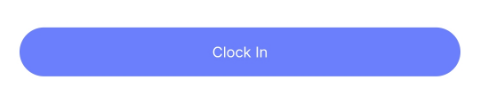
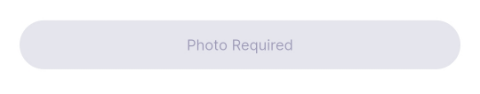
WIP: refactor: hrms and clock in documentation

diff --git a/docs/integration/hrms/e-tms/app-usage.md b/docs/integration/hrms/e-tms/app-usage.md
@@ -1,5 +1,5 @@
 ---
-sidebar_position: 3
+sidebar_position: 2
 title: App Usage
 description: An E TMS features in SQL HRMS app guide
 ---
@@ -31,8 +31,10 @@ Enable **Autostart** for SQL HRMS to ensure E TMS features work accordingly (ref
 | ![clock-button2](../../../../static/img/integration/hrms/e-tms/clock-button2.png) | SQL HRMS app is trying to get user's current location                                                                                                                                                                                                                                  |
 | ![clock-button3](../../../../static/img/integration/hrms/e-tms/clock-button3.png) | User is not within work location. However, if user is really within their work location, SQL HRMS app will continuously try to get a more accurate position so that user will be able to Clock In / Clock Out                                                                          |
 | ![clock-button4](../../../../static/img/integration/hrms/e-tms/clock-button4.png) | User's location is mocked and is not allowed to Clock In / Out                                                                                                                                                                                                                         |
-| ![clock-button5](../../../../static/img/integration/hrms/e-tms/clock-button5.png) | User is within work location and is allowed to Clock In                                                                                                                                                                                                                                |
-| ![clock-button6](../../../../static/img/integration/hrms/e-tms/clock-button6.png) | User is within work location and is allowed to Clock Out                                                                                                                                                                                                                               |
+| ![clock-button5](../../../../static/img/integration/hrms/e-tms/clock-button5.png) | User is required to take a site photo                                                                                                                                                                                                                                                  |
+| ![clock-button6](../../../../static/img/integration/hrms/e-tms/clock-button6.png) | The photo uploaded by user is no longer valid. User will need to delete and reupload a new photo. The valid duration is 2 mins                                                                                                                                                         |
+| ![clock-button7](../../../../static/img/integration/hrms/e-tms/clock-button7.png) | User is within work location and is allowed to Clock In                                                                                                                                                                                                                                |
+| ![clock-button8](../../../../static/img/integration/hrms/e-tms/clock-button8.png) | User is within work location and is allowed to Clock Out                                                                                                                                                                                                                               |
 
 **Clock In:**
 
@@ -65,9 +67,9 @@ If user forget to clock out, the app will reset the time tracking after 10 hours
 
 | **Button**                                                                        | **Explanation**                                                                                                                                                                                                                                                                                                              |
 | :-------------------------------------------------------------------------------- | :--------------------------------------------------------------------------------------------------------------------------------------------------------------------------------------------------------------------------------------------------------------------------------------------------------------------------- |
-| ![clock-button7](../../../../static/img/integration/hrms/e-tms/clock-button7.png) | SQL HRMS app's Bluetooth service is unable to start. This may due to the following reasons: <br/><br/> 1. User's Bluetooth service is not enabled <br/> 2. The required nearby devices permission is not allowed <br/><br/> Refer [Bluetooth Service and Nearby Devices Permission](../permission#nearby-devices--bluetooth) |
-| ![clock-button5](../../../../static/img/integration/hrms/e-tms/clock-button5.png) | User is allowed to Clock In                                                                                                                                                                                                                                                                                                  |
-| ![clock-button6](../../../../static/img/integration/hrms/e-tms/clock-button6.png) | User is allowed to Clock Out                                                                                                                                                                                                                                                                                                 |
+| ![clock-button9](../../../../static/img/integration/hrms/e-tms/clock-button9.png) | SQL HRMS app's Bluetooth service is unable to start. This may due to the following reasons: <br/><br/> 1. User's Bluetooth service is not enabled <br/> 2. The required nearby devices permission is not allowed <br/><br/> Refer [Bluetooth Service and Nearby Devices Permission](../permission#nearby-devices--bluetooth) |
+| ![clock-button7](../../../../static/img/integration/hrms/e-tms/clock-button7.png) | User is allowed to Clock In                                                                                                                                                                                                                                                                                                  |
+| ![clock-button8](../../../../static/img/integration/hrms/e-tms/clock-button8.png) | User is allowed to Clock Out                                                                                                                                                                                                                                                                                                 |
 
 **Clock In:**
 
@@ -82,7 +84,9 @@ If user forget to clock out, the app will reset the time tracking after 10 hours
 
     ![clock-out4](../../../../static/img/integration/hrms/e-tms/clock-out4.png)
 
-    - If **_'Claim OT' switch_** is turned on, it will go through similar OT validations as _By GPS_ before QR Code is generated
+    - **_'Claim As Leave' switch_** follows the same flow as _By GPS_ and user will receive the below message instead
+
+      ![clock-out5](../../../../static/img/integration/hrms/e-tms/clock-out5.png)
 
 :::warning
 Screenshotting the QR Code is not allowed!
@@ -218,8 +222,8 @@ Managers are allowed to clock in on behalf for his team by tapping on the **_'Cl
 | ![clock-button1](../../../../static/img/integration/hrms/e-tms/clock-button1.png) | SQL HRMS app's location service is unable to start. This may due to the following reasons: <br/><br/> 1. User's device GPS is not enabled <br/> 2. The required location permission is not allowed <br/><br/> Refer [Location Service and Permission](../permission.md#location) |
 | ![clock-button2](../../../../static/img/integration/hrms/e-tms/clock-button2.png) | SQL HRMS app is trying to get user's current location                                                                                                                                                                                                                            |
 | ![clock-button4](../../../../static/img/integration/hrms/e-tms/clock-button4.png) | User's location is mocked and is not allowed to Clock In / Out                                                                                                                                                                                                                   |
-| ![clock-button5](../../../../static/img/integration/hrms/e-tms/clock-button5.png) | User's location is detected and is allowed to Clock In                                                                                                                                                                                                                           |
-| ![clock-button6](../../../../static/img/integration/hrms/e-tms/clock-button6.png) | User's location is detected and is allowed to Clock Out                                                                                                                                                                                                                          |
+| ![clock-button7](../../../../static/img/integration/hrms/e-tms/clock-button7.png) | User's location is detected and is allowed to Clock In                                                                                                                                                                                                                           |
+| ![clock-button8](../../../../static/img/integration/hrms/e-tms/clock-button8.png) | User's location is detected and is allowed to Clock Out                                                                                                                                                                                                                          |
 
 - Manager's location will be captured when help to clock on behalf
 - Manager can adjust the employee's clocking time and checked **_'Claim OT'_** or **_'Claim As Leave'_** if needed

diff --git a/docs/integration/hrms/e-claim/app-usage.md b/docs/integration/hrms/e-claim/app-usage.md
@@ -88,19 +88,20 @@ User can view all his claim transactions once enter this page
     - Claim Status
 - Type of claim status:
 
-  | **Icon**                                                                                            | **Claim Status** | **Remark**                                                    |
-  | :-------------------------------------------------------------------------------------------------- | :--------------- | :------------------------------------------------------------ |
-  | ![pending-approval-icon](../../../../static/img/integration/hrms/e-claim/pending-approval-icon.png) | Pending Approval | Status after normal employee applied a claim submission       |
-  | ![approved-icon](../../../../static/img/integration/hrms/e-claim/approved-icon.png)                 | Approved         | Approved by manager from app and not synced to payroll system |
-  | ![approved-sync-icon](../../../../static/img/integration/hrms/e-claim/approved-sync-icon.png)       | Approved (Sync)  | Synced and approved on payroll system                         |
-  | ![rejected-icon](../../../../static/img/integration/hrms/e-claim/rejected-icon.png)                 | Rejected         | Rejected from app / payroll system                            |
-  | ![cancelled-icon](../../../../static/img/integration/hrms/e-claim/cancelled-icon.png)               | Cancelled        | Cancelled by user from app                                    |
+  | **Icon**                                                                                                    | **Claim Status**     | **Remark**                                                                                                                                             |
+  | :---------------------------------------------------------------------------------------------------------- | :------------------- | :----------------------------------------------------------------------------------------------------------------------------------------------------- |
+  | ![pending-approval-icon](../../../../static/img/integration/hrms/e-claim/pending-approval-icon.png)         | Pending Approval     | Status after normal employee applied a claim submission                                                                                                |
+  | ![pending-verification-icon](../../../../static/img/integration/hrms/e-claim/pending-verification-icon.png) | Pending Verification | Status after normal employee applied a claim submission (with [Multi-Level Approval](payroll-setup#multi-level-leave-approval--notification-settings)) |
+  | ![approved-icon](../../../../static/img/integration/hrms/e-claim/approved-icon.png)                         | Approved             | Approved by manager from app and not synced to payroll system                                                                                          |
+  | ![approved-sync-icon](../../../../static/img/integration/hrms/e-claim/approved-sync-icon.png)               | Approved (Sync)      | Synced and approved on payroll system                                                                                                                  |
+  | ![rejected-icon](../../../../static/img/integration/hrms/e-claim/rejected-icon.png)                         | Rejected             | Rejected from app / payroll system                                                                                                                     |
+  | ![cancelled-icon](../../../../static/img/integration/hrms/e-claim/cancelled-icon.png)                       | Cancelled            | Cancelled by user from app                                                                                                                             |
 
 ## Claim Transaction Detail
 
 ![claim-detail](../../../../static/img/integration/hrms/e-claim/claim-detail.png)
 
-- User are allowed to edit the claim transaction details or cancel the claim on **Pending Approval** claims.
+- User are allowed to edit the claim transaction details or cancel the claim on **Approved / Pending Approval Pending Verification** claims.
 - **_'View Change Log' button_**: View change log of the claim
 
 ## Team Claim (Manager only)
@@ -108,7 +109,7 @@ User can view all his claim transactions once enter this page
 Manager Types: (refer [Manager Authority Settings](payroll-setup.md#manager-authority-settings))
 
 1. **Approval Manager:** Can approve employee claim
-2. **Verify Manager:** Cannot approve employee claim
+2. **Verify Manager:** Can verify employee claim (required Approval Manager to approve a claim submission)
 
 ![team-claim](../../../../static/img/integration/hrms/e-claim/team-claim.png)
 
@@ -129,17 +130,30 @@ Manager Types: (refer [Manager Authority Settings](payroll-setup.md#manager-auth
 
 ![claim-approval](../../../../static/img/integration/hrms/e-claim/claim-approval.png)
 
-- Managers can apply different actions on his team’s claim transaction based on the claim status
-
-  | **Claim Status** | **Allowed Actions**    |
-  | :--------------- | :--------------------- |
-  | Pending Approval | Approve, Reject        |
-  | Approved         | Undo Approved, Reject  |
-  | Approved (Sync)  | -                      |
-  | Rejected         | Approve, Undo Rejected |
-  | Cancelled        | -                      |
-
 - **_'View Change Log' button_**: View change log of the claim
+- Managers can apply different actions on his team’s claim transaction based on the claim status and his authority
+
+- Actions that can be done by **Approval Manager**: 
+
+  | **Claim Status**     | **Allowed Actions**    |
+  | :--------------------| :--------------------- |
+  | Pending Verification | Approve, Reject        |
+  | Pending Approval     | Approve, Reject        |
+  | Approved             | Undo Approved, Reject  |
+  | Approved (Sync)      | -                      |
+  | Rejected             | Approve, Undo Rejected |
+  | Cancelled            | -                      |
+
+- Actions that can be done by **Verify Manager**: 
+
+  | **Claim Status**     | **Allowed Actions**    |
+  | :--------------------| :--------------------- |
+  | Pending Verification | Verify, Reject         |
+  | Pending Approval     | Undo Verify, Reject    |
+  | Approved             | Reject                 |
+  | Approved (Sync)      | -                      |
+  | Rejected             | Verify, Undo Rejected  |
+  | Cancelled            | -                      |
 
 #### Claim Approval Warning Dialog Box
 

diff --git a/docs/integration/hrms/e-tms/sync-cloud.md b/docs/integration/hrms/e-tms/sync-cloud.md
@@ -1,5 +1,5 @@
 ---
-sidebar_position: 4
+sidebar_position: 3
 title: Sync Cloud
 description: An E TMS sync cloud guide in SQL Payroll
 ---
@@ -33,8 +33,25 @@ This dialog box will only prompt if there are any incomplete log pairs (missing 
 
 - The logs are grouped by the date and employee with alternating **green** and **white** highlights
 - **Green cells:** Missing time which needs to be filled in
-- Editable columns: - Clock In - Clock Out - Is OT - Break Time
+- Editable columns: 
+  - Clock In 
+  - Clock Out 
+  - Is OT 
+  - Break Time
 - **_'Recalculate' button_** will enabled once changes are made to perform recalculation on the attendance logs
+- **Batch Edit:** _Ctrl_ + select the rows you want to edit then right click and select _Batch Edit_
+  - Note that you can only select records with missing clock in / clock out time and only either one at a time
+  - Supported column: Clock In / Clock Out (depends on the type of record selected)
+  
+    ![log-error](../../../../static/img/integration/hrms/e-tms/batch-edit-error-log.png)
+    
+    - The date will automatically follow the record's date
+    - If the time belongs to the next day, then you'll need to check the _'Overnight' checkbox_
+
+      | **Selected Record Dates** |  **Overnight** | **Result**                               |
+      | :------------------------ | :------------- | :--------------------------------------- |
+      | 2/4/2025<br/>31/7/2025    | Not Checked    | 2/4/2025 06:00 PM<br/>31/7/2025 06:00 PM |
+      | 3/4/2025                  | Checked        | 4/4/2025 06:00 PM                        |
 
 ## Log
 
@@ -58,15 +75,23 @@ User can click on the **_'Map' button_** in tab to show the employee's log locat
 
 ### Edit Mode
 
-1. Right-click on the grid, select "Edit"
+Right-click on the grid, select "Edit"
 
     ![log-edit-mode](../../../../static/img/integration/hrms/e-tms/log-edit-mode.png)
 
 - The logs are grouped by the date and employee with alternating **green** and **white** highlights
-- Editable columns: - Clock In - Clock Out - Is OT - Break Time
+- Editable columns: 
+  - Clock In 
+  - Clock Out 
+  - Is OT 
+  - Break Time
 - **_'Recalculate' button_** will enabled once changes are made to perform recalculation on the attendance logs
 - The **_'Work Duration'_** calculated after the log is adjusted is the difference between the **_'Adjusted Clock Out'_** and **_'Adjusted Clock In'_**
   - An accurate **_'Work Duration'_** will be calculated after the **_'Recalculate' button_** is clicked
+- **Batch Edit:** _Ctrl_ + select the rows you want to edit then right click and select _Batch Edit_
+  - Supported columns:
+    - Is OT
+    - Break Time
 
 ## OT
 
@@ -74,26 +99,23 @@ User can click on the **_'Map' button_** in tab to show the employee's log locat
 
 - Editable columns:
   - Post Date
+  - Remark
+  - Break Time
+  - Claimable
   - Action:
     - Unassigned
     - Overtime: Record will be posted to Pending Overtime
     - Cancelled: Record will be ignored
-- **Red highlight:** Not all the nested records are assigned with an OT code (won't be posted to pending)
-- **Green highlight:** All the nested records are assigned with an OT code
-- **_'Show Log' button_** is to show all employee's attendance logs on that date
-
-### Edit Mode
-
-1. Right-click on the grid, select "Edit"
-
-    ![ot-edit-mode](../../../../static/img/integration/hrms/e-tms/ot-edit-mode.png)
-
-- Editable columns:
-  - Remark
-  - Claimable
-  - Break Time
   - OT Code
-- **_'Save' button_** will enabled once changes are made
+- **_'Show Log' button_** is to show all employee's attendance logs on that date
+- **Batch Edit:** _Ctrl_ + select the rows you want to edit then right click and select _Batch Edit_
+  - Supported columns:
+    - Post Date
+    - Remark
+    - Break Time
+    - Claimable
+    - Action
+    - OT Code
 
 ## Leave
 
@@ -111,6 +133,12 @@ User can click on the **_'Map' button_** in tab to show the employee's log locat
   - Leave Type: Value changes based on chosen action
 - User need to assign a leave code in order to post it to Leave Application
 - **_'Show Log' button:_** Show all employee's logs on that date
+- **Batch Edit:** _Ctrl_ + select the rows you want to edit then right click and select _Batch Edit_
+  - Supported columns:
+    - Post Date
+    - Remark
+    - Deductible
+    - Action
 
 ## Generate Calendar Reminder
 

diff --git a/docs/integration/clock-in.md b/docs/integration/clock-in.md
@@ -129,9 +129,9 @@ Only for **Android 11 and below**
 
     ![dashboard](../../static/img/integration/clock-in/dashboard.png)
 
-    - ***'Clock In / Out'* button:** Navigate to [QR Scanner](#qr-scanner)
-    - **Gear icon (top right):** Navigate to [Settings](#settings)
-    - **Logout icon (top right):** Logout from SQL Clock In app
+    - **_'Clock In / Out' button_**: Navigate to [QR Scanner](#qr-scanner)
+    - **_Gear icon (top right)_**: Navigate to [Settings](#settings)
+    - **_Logout icon (top right)_**: Logout from SQL Clock In app
 
 ## QR Scanner
 
@@ -142,7 +142,7 @@ For employees to scan the QR Code generated from SQL HRMS app to clock in / out
     - The scanner will sleep after a duration of inactivity
     - The scanner will wake up when there's motion detected
     - The duration of inactivity and motion detection sensitivity can be adjusted in the [settings](#settings)
-    - ***Error icon*** at the top right corner will only appear when there are issues
+    - **_Error icon_** at the top right corner will only appear when there are issues
       - Tap on the icon to view what are the issues (only those with issues will appear)
 
 | **Issue**                | **Explanation**                                                                                                                                                                                                     |
@@ -160,6 +160,7 @@ For employees to scan the QR Code generated from SQL HRMS app to clock in / out
 | ![dialog5](../../static/img/integration/clock-in/dialog5.png) | 1. Employee's Bluetooth service is not turned on <br/> 2. Employee's required _Nearby Devices_ permission is not allowed <br/> 3. Employee is not near the scanner <br/> 3. Scanner's Bluetooth service or Location service is not turned on <br/> 4. Scanner's required _Nearby Devices_ or _Location_ permission is not allowed <br/><br/> For SQL HRMS, refer [bluetooth service and nearby devices permission](hrms/permission/#nearby-devices--bluetooth) <br/> For SQL Clock In, refer [location service and permission](#location) and [bluetooth service and nearby devices permission](#nearby-devices-bluetooth) |
 | ![dialog6](../../static/img/integration/clock-in/dialog6.png) | Employee has successfully clocked in                                                                                                                                                                                                                                                                                                                                                                                                                                                                                                                                                                                       |
 | ![dialog7](../../static/img/integration/clock-in/dialog7.png) | Employee has successfully clocked out                                                                                                                                                                                                                                                                                                                                                                                                                                                                                                                                                                                      |
+| ![dialog8](../../static/img/integration/clock-in/dialog8.png) | Employee has successfully clocked out and claim replacement leave                                                                                                                                                                                                                                                                                                                                                                                                                                                                                                                                                          |
 
 ## Settings
 

diff --git a/docs/integration/hrms/e-tms/payroll-report.md b/docs/integration/hrms/e-tms/payroll-report.md
@@ -1,5 +1,5 @@
 ---
-sidebar_position: 2
+sidebar_position: 4
 title: Payroll Report
 description: An E TMS report guide in SQL Payroll
 ---
@@ -14,12 +14,12 @@ description: An E TMS report guide in SQL Payroll
     - Daily View
     - Weekly View
     - Monthly View
-    - **Red box:** Public holiday
-    - **Orange box:** Rest day
-    - **Blank:** No session assigned
-    - **Others:** Work day with session (font color based on settings in Maintain Session)
-    - ***'Create Schedule' button***: Direct user to Maintain Calendar
-    - ***'Today' button:*** Focus on today's date if within date range
+    - **Red box**: Public holiday
+    - **Orange box**: Rest day
+    - **Blank**: No session assigned
+    - **Others**: Work day with session (font color based on settings in Maintain Session)
+    - **_'Create Schedule' button_**: Direct user to Maintain Calendar
+    - **_'Today' button**: Focus on today's date if within date range
 
 ## Time Attendance Summary
 
@@ -28,9 +28,9 @@ description: An E TMS report guide in SQL Payroll
     ![time-attendance-summary](../../../../static/img/integration/hrms/e-tms/time-attendance-summary.png)
 
     - Shows all log pairs processed in Sync Cloud
-    - **'*' symbol:** Adjusted log
-    - ***'(by mgr)' label:***  Log is clocked by manager through SQL HRMS app
-    - **'-' symbol:** Employee do not have any clock in/clock out records for that session
+    - **_'*' symbol_**: Adjusted log
+    - **_'(by mgr)' label_**: Log is clocked by manager through SQL HRMS app
+    - **_'-' symbol_**: Employee do not have any clock in/clock out records for that session
     - Overtime pairs will only list those OT records that has been confirm by HR and posted to Pending Overtime with claimable more than 0
 
 ### Attendance Reward
@@ -41,8 +41,8 @@ description: An E TMS report guide in SQL Payroll
     - Employee who are entitled to **Attendance Reward** (set in [Maintain Employee](payroll-setup.md#maintain-employee)) and fulfilled the conditions will be listed
     - Once **'Save'**, the reward will be posted to Pending Allowance
 
-2. Select an Allowance Code and save
-3. Navigate to Payroll > Open Pending Payroll…,click on "Allowance"
+2. Select an Allowance Code and a Deduction Code and save
+3. Navigate to Payroll > Open Pending Payroll…, click on "Allowance" / "Deduction"
 
     ![attendance-reward2](../../../../static/img/integration/hrms/e-tms/attendance-reward2.png)
 

diff --git a/docs/integration/hrms/e-leave/payroll-setup.md b/docs/integration/hrms/e-leave/payroll-setup.md
@@ -11,8 +11,8 @@ slug: /integration/hrms/e-leave/payroll-setup
 
 ![company-profile-hrms-approval-notification](../../../../static/img/integration/hrms/e-leave/company-profile-hrms-approval-notification.png)
 
-- ***'Multi-Level Approval' checkbox***: Checked to enable multi-level approval for leave application in E HRMS app
-- ***'Send E Leave Email Notification' checkbox***: Checked to allow E HRMS app to send leave email notifications to managers 
+- **_'Multi-Level Approval' checkbox_**: Checked to enable multi-level approval for leave application in E HRMS app
+- **_'Send E Leave Email Notification' checkbox_**: Checked to allow E HRMS app to send leave email notifications to managers 
 
 ## Manager Authority Settings
 

diff --git a/docs/integration/hrms/e-tms/payroll-setup.md b/docs/integration/hrms/e-tms/payroll-setup.md
@@ -88,6 +88,7 @@ For more Public Holiday options, user may click on the **_'≣'_** on the grid t
 
    - Only one clock method can be selected. However, if none of the clock method is selected, then the clock in / out button in SQL HRMS app will be disabled and employee does not require to clock in / out.
    - Clock Method on days without work session, public holiday and rest day is by default **GPS**. User may update to their desire clock method in [Maintain Calendar](#maintain-calendar).
+   - If **QR** is selected, the clock in / out location will follow the coordinate of the branch set in [Maintain Branch](#maintain-branch).
 
    :::
 

diff --git a/docs/integration/hrms/e-claim/payroll-setup.md b/docs/integration/hrms/e-claim/payroll-setup.md
@@ -27,7 +27,7 @@ SQL Payroll/SQL HRMS app will prioritize claim limit set in Maintain Employee ov
 
 ![notification-settings](../../../../static/img/integration/hrms/e-claim/notification-settings.png)
 
-- ***'Send EClaim Email Notification' checkbox***: Checked to allow E HRMS app to send claim email notifications to managers
+- **_'Send EClaim Email Notification' checkbox_**: Checked to allow E HRMS app to send claim email notifications to managers
 
 ## Manager Authority Settings
 

diff --git a/docs/integration/hrms/e-payroll/app-usage.md b/docs/integration/hrms/e-payroll/app-usage.md
@@ -96,7 +96,7 @@ User can view their company's announcement
   ![announcement2](../../../../static/img/integration/hrms/e-payroll/announcement2.png)
 
 :::info
-Enable **Autostart** for SQL HRMS to ensure Announcement features work accordingly (refer [Autostart](../autostart.md))
+For **Android** user, enable **Autostart** for SQL HRMS to ensure Announcement features work accordingly (refer [Autostart](../autostart.md))
 :::
 
 ### Company Profile
